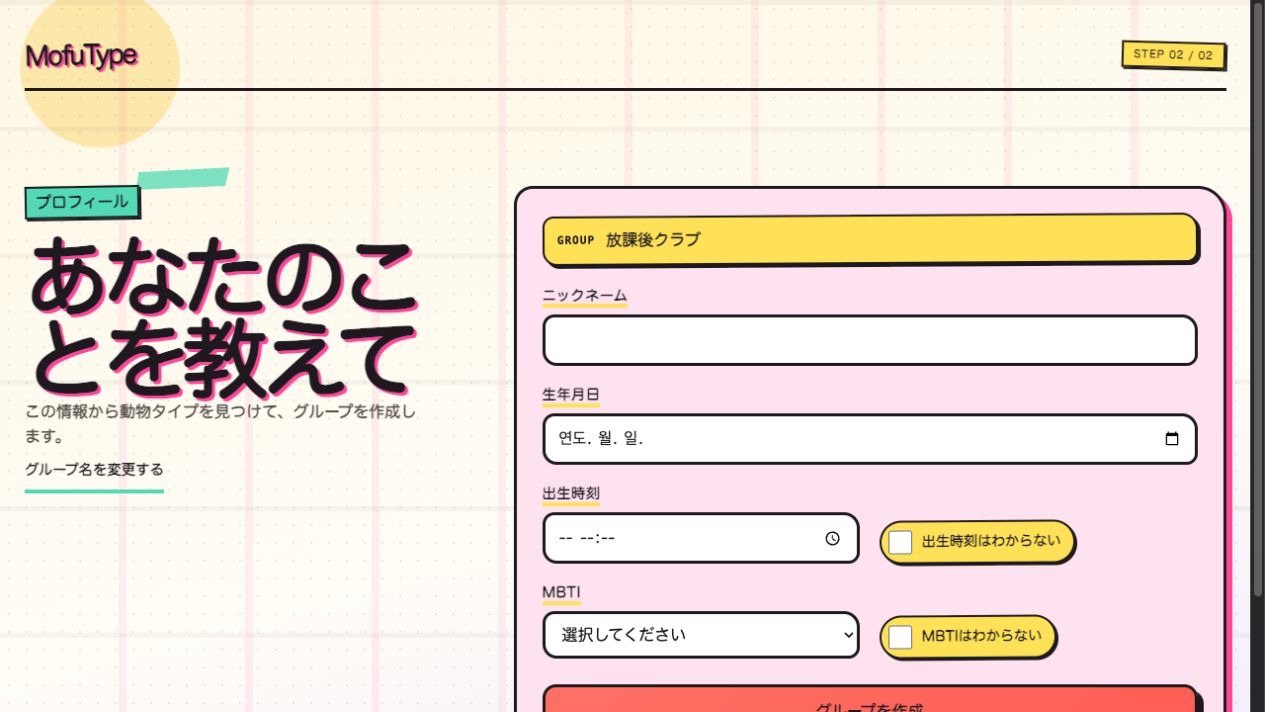
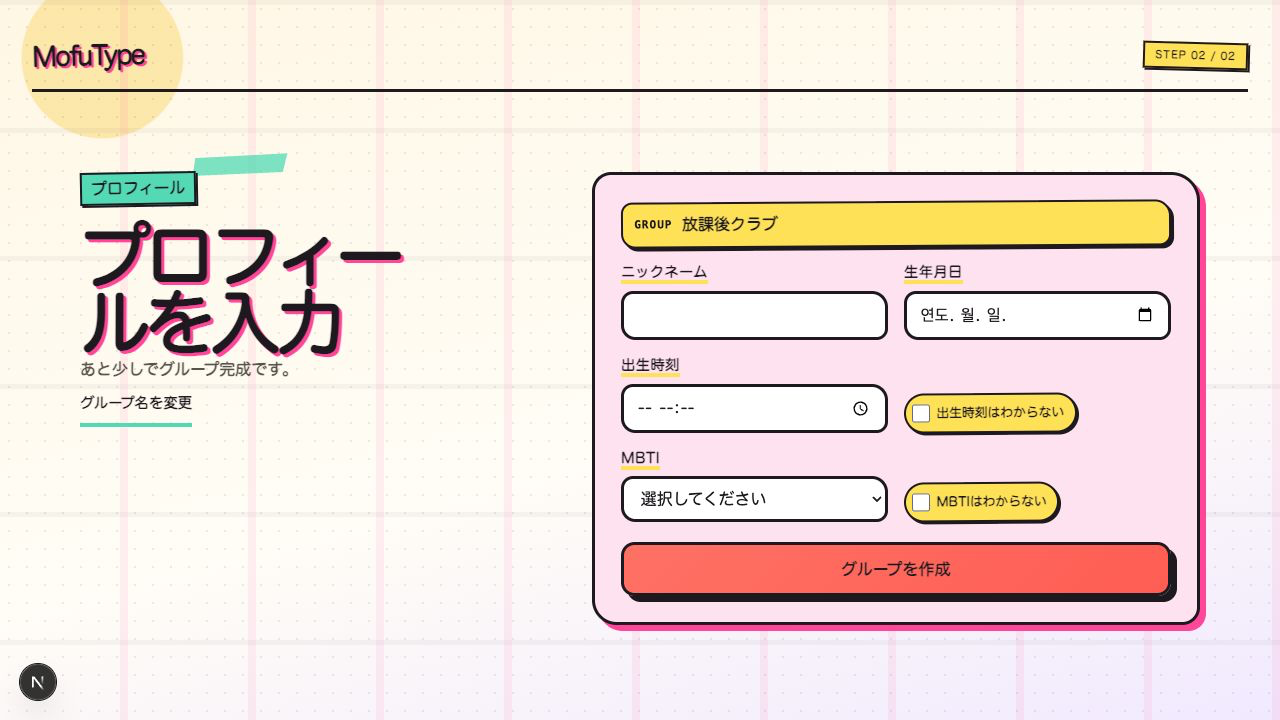
style: compact profile creation form

diff --git a/src/app/globals.css b/src/app/globals.css
@@ -279,13 +279,18 @@ select {
 .start-group-form .form-field input { min-height: 58px; font-size: 1.08rem; font-weight: 750; }
 .start-group-form__note { margin: 0; color: var(--text-muted); font-size: 0.82rem; font-weight: 700; text-align: center; }
 .profile-step-shell { width: min(calc(100% - 2rem), var(--content-wide)); margin-inline: auto; padding: 2rem 0 5rem; }
-.profile-step { display: grid; gap: 2rem; padding-top: clamp(2.5rem, 8vw, 6rem); }
-.profile-step__intro { position: relative; max-width: 34rem; }
+.profile-step { display: grid; max-width: 70rem; gap: 2rem; margin-inline: auto; padding-top: clamp(2.5rem, 7vw, 5rem); }
+.profile-step__intro { position: relative; max-width: 26rem; }
 .profile-step__intro::before { position: absolute; top: -1.1rem; left: 7rem; width: 6rem; height: 1.25rem; background: var(--tape-mint); clip-path: polygon(4% 0, 100% 8%, 94% 100%, 0 88%); content: ""; transform: rotate(-4deg); }
-.profile-step__intro h1 { margin: 0; font-size: clamp(2.8rem, 9vw, 5.4rem); font-weight: 1000; letter-spacing: -0.075em; line-height: 0.96; text-shadow: 3px 3px 0 var(--hot-pink); text-wrap: balance; }
+.profile-step__intro h1 { margin: 0; font-size: clamp(2.65rem, 7vw, 4.4rem); font-weight: 1000; letter-spacing: -0.075em; line-height: 0.96; text-shadow: 3px 3px 0 var(--hot-pink); text-wrap: balance; }
 .profile-step__intro > p:last-of-type { color: var(--text-muted); font-weight: 700; }
 .profile-step__intro > a { display: inline-flex; min-height: 44px; align-items: center; border-bottom: 4px solid var(--mint-pop); color: var(--ink); font-size: 0.9rem; font-weight: 900; text-underline-offset: 0.2rem; }
-.profile-step-group { display: flex; min-width: 0; align-items: center; gap: 0.7rem; margin: 0; border: 2px solid var(--ink); border-radius: 0.7rem 1rem 0.7rem 0.9rem; padding: 0.65rem 0.8rem; background: var(--butter); box-shadow: 3px 3px 0 var(--ink); transform: rotate(-0.35deg); }
+.profile-step .ui-card { width: min(100%, 38rem); max-width: 38rem; justify-self: center; }
+.profile-step .onboarding-form, .profile-step .profile-fields { gap: 1rem; }
+.profile-step .form-field input, .profile-step .form-field select { min-height: 46px; padding-block: 0.55rem; }
+.profile-step .unknown-toggle { min-height: 40px; gap: 0.4rem; padding: 0.2rem 0.65rem 0.2rem 0.35rem; font-size: 0.8rem; }
+.profile-step .unknown-toggle input { width: 1.15rem; height: 1.15rem; }
+.profile-step-group { display: flex; min-width: 0; align-items: center; gap: 0.6rem; margin: 0; border: 2px solid var(--ink); border-radius: 0.7rem 1rem 0.7rem 0.9rem; padding: 0.5rem 0.7rem; background: var(--butter); box-shadow: 3px 3px 0 var(--ink); transform: rotate(-0.35deg); }
 .profile-step-group span { flex: 0 0 auto; font-family: ui-monospace, monospace; font-size: 0.7rem; font-weight: 950; letter-spacing: 0.08em; }
 .profile-step-group strong { min-width: 0; overflow-wrap: anywhere; }
 .profile-step-missing { display: grid; gap: 1rem; justify-items: start; }
@@ -436,7 +441,7 @@ select {
   .hero h1 { font-size: clamp(2.8rem, 17vw, 3.35rem); letter-spacing: -0.08em; }
   .hero__stripe { right: 0.5rem; width: 6rem; }
   .ui-card { padding: 1rem; box-shadow: 4px 4px 0 var(--ink); }
-  .unknown-toggle { width: 100%; }
+  .join-panel .unknown-toggle { width: 100%; }
   .profile-step-shell { padding-top: 0.75rem; }
   .profile-step { padding-top: 3.2rem; }
   .profile-step__intro h1 { font-size: 2.8rem; overflow-wrap: anywhere; }
@@ -467,6 +472,10 @@ select {
   .hero__actions { flex-direction: row; }
   .feature-grid { grid-template-columns: repeat(3, 1fr); }
   .create-section { grid-template-columns: minmax(0, 0.85fr) minmax(20rem, 1.15fr); align-items: start; }
+  .profile-step .profile-fields { grid-template-columns: repeat(2, minmax(0, 1fr)); align-items: end; column-gap: 1rem; }
+  .profile-step .profile-fields .form-field:nth-of-type(1),
+  .profile-step .profile-fields .form-field:nth-of-type(2) { grid-column: auto; }
+  .profile-step .unknown-toggle { align-self: end; justify-self: start; }
   .group-member-shell { width: min(calc(100% - 2rem), 86rem); padding-top: 2rem; }
   .group-member-header { grid-template-columns: minmax(0, 1fr) auto; align-items: end; }
   .group-member-actions { justify-content: flex-end; }
@@ -484,7 +493,7 @@ select {
   .profile-fields { grid-template-columns: repeat(2, minmax(0, 1fr)); align-items: end; }
   .profile-fields .form-field:nth-of-type(1),
   .profile-fields .form-field:nth-of-type(2) { grid-column: 1 / -1; }
-  .profile-step { grid-template-columns: minmax(15rem, 0.72fr) minmax(24rem, 1.28fr); align-items: start; gap: clamp(2rem, 7vw, 6rem); }
+  .profile-step { grid-template-columns: minmax(16rem, 0.8fr) minmax(0, 38rem); align-items: start; justify-content: space-between; gap: clamp(2rem, 5vw, 4rem); }
   .profile-step__intro { position: sticky; top: 2rem; }
 }
 

diff --git a/src/app/create/profile/page.test.tsx b/src/app/create/profile/page.test.tsx
@@ -16,11 +16,11 @@ describe("CreateProfilePage", () => {
   it("renders the second creation step with native profile controls", () => {
     render(<CreateProfilePage />);
 
-    expect(screen.getByRole("heading", { name: "あなたのことを教えて" })).toBeInTheDocument();
+    expect(screen.getByRole("heading", { name: "プロフィールを入力" })).toBeInTheDocument();
     expect(screen.getByRole("form", { name: "プロフィール入力フォーム" })).toBeInTheDocument();
     expect(screen.getByLabelText("生年月日")).toHaveAttribute("type", "date");
     expect(screen.getByLabelText("出生時刻")).toHaveAttribute("type", "time");
     expect(screen.getByRole("checkbox", { name: "出生時刻はわからない" })).toBeInTheDocument();
-    expect(screen.getByRole("link", { name: "グループ名を変更する" })).toHaveAttribute("href", "/#create");
+    expect(screen.getByRole("link", { name: "グループ名を変更" })).toHaveAttribute("href", "/#create");
   });
 });

diff --git a/src/app/create/profile/page.tsx b/src/app/create/profile/page.tsx
@@ -13,9 +13,9 @@ export default function CreateProfilePage() {
       <section className="profile-step" aria-labelledby="profile-step-title">
         <div className="profile-step__intro">
           <p className="hero__eyebrow">プロフィール</p>
-          <h1 id="profile-step-title">あなたのことを教えて</h1>
-          <p>この情報から動物タイプを見つけて、グループを作成します。</p>
-          <Link href="/#create">グループ名を変更する</Link>
+          <h1 id="profile-step-title">プロフィールを入力</h1>
+          <p>あと少しでグループ完成です。</p>
+          <Link href="/#create">グループ名を変更</Link>
         </div>
         <Card variant="accent">
           <CreateGroupForm profileOnly />

diff --git a/src/production-source-safety.test.ts b/src/production-source-safety.test.ts
@@ -110,6 +110,15 @@ describe("production source safety", () => {
     }
   });
 
+  it("keeps the profile step compact without replacing native controls", () => {
+    const globalStyles = readFileSync(path.join(sourceRoot, "app/globals.css"), "utf8");
+
+    expect(globalStyles).toContain(".profile-step .ui-card {");
+    expect(globalStyles).toContain("max-width: 38rem;");
+    expect(globalStyles).toContain(".profile-step .unknown-toggle input {");
+    expect(globalStyles).toContain("width: 1.15rem;");
+  });
+
   it("keeps semantic selected-edge colors visible against cream", () => {
     const globalStyles = readFileSync(path.join(sourceRoot, "app/globals.css"), "utf8");
     const cream = colorToken(globalStyles, "--cream");
